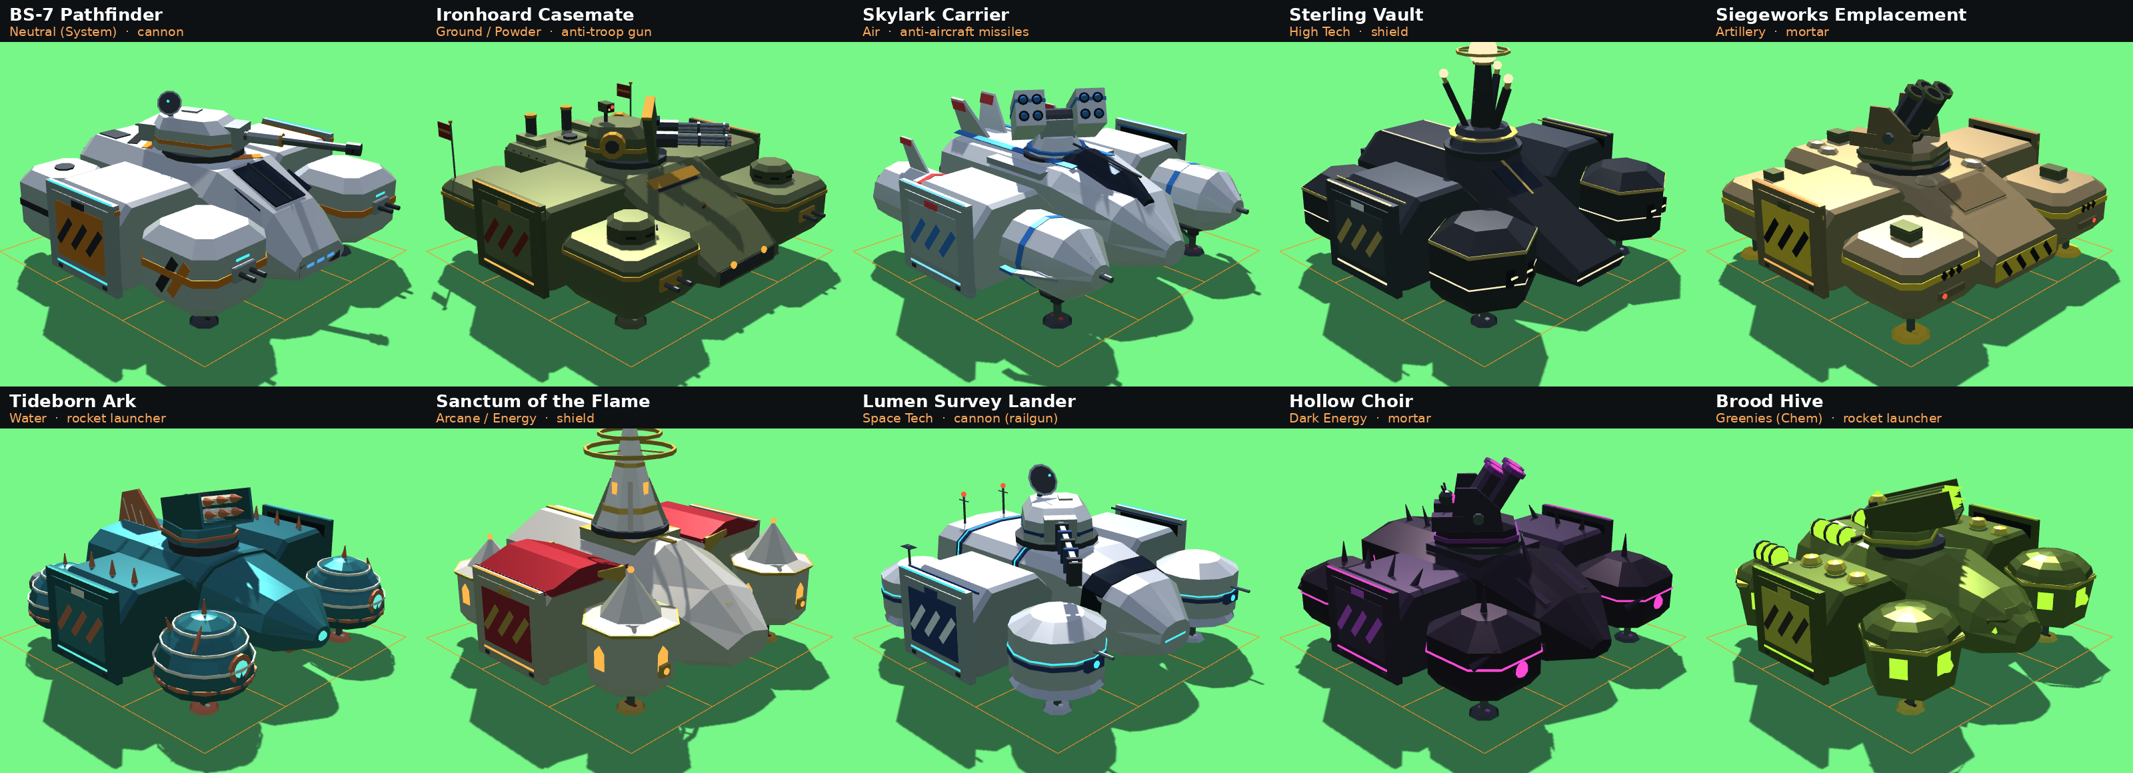
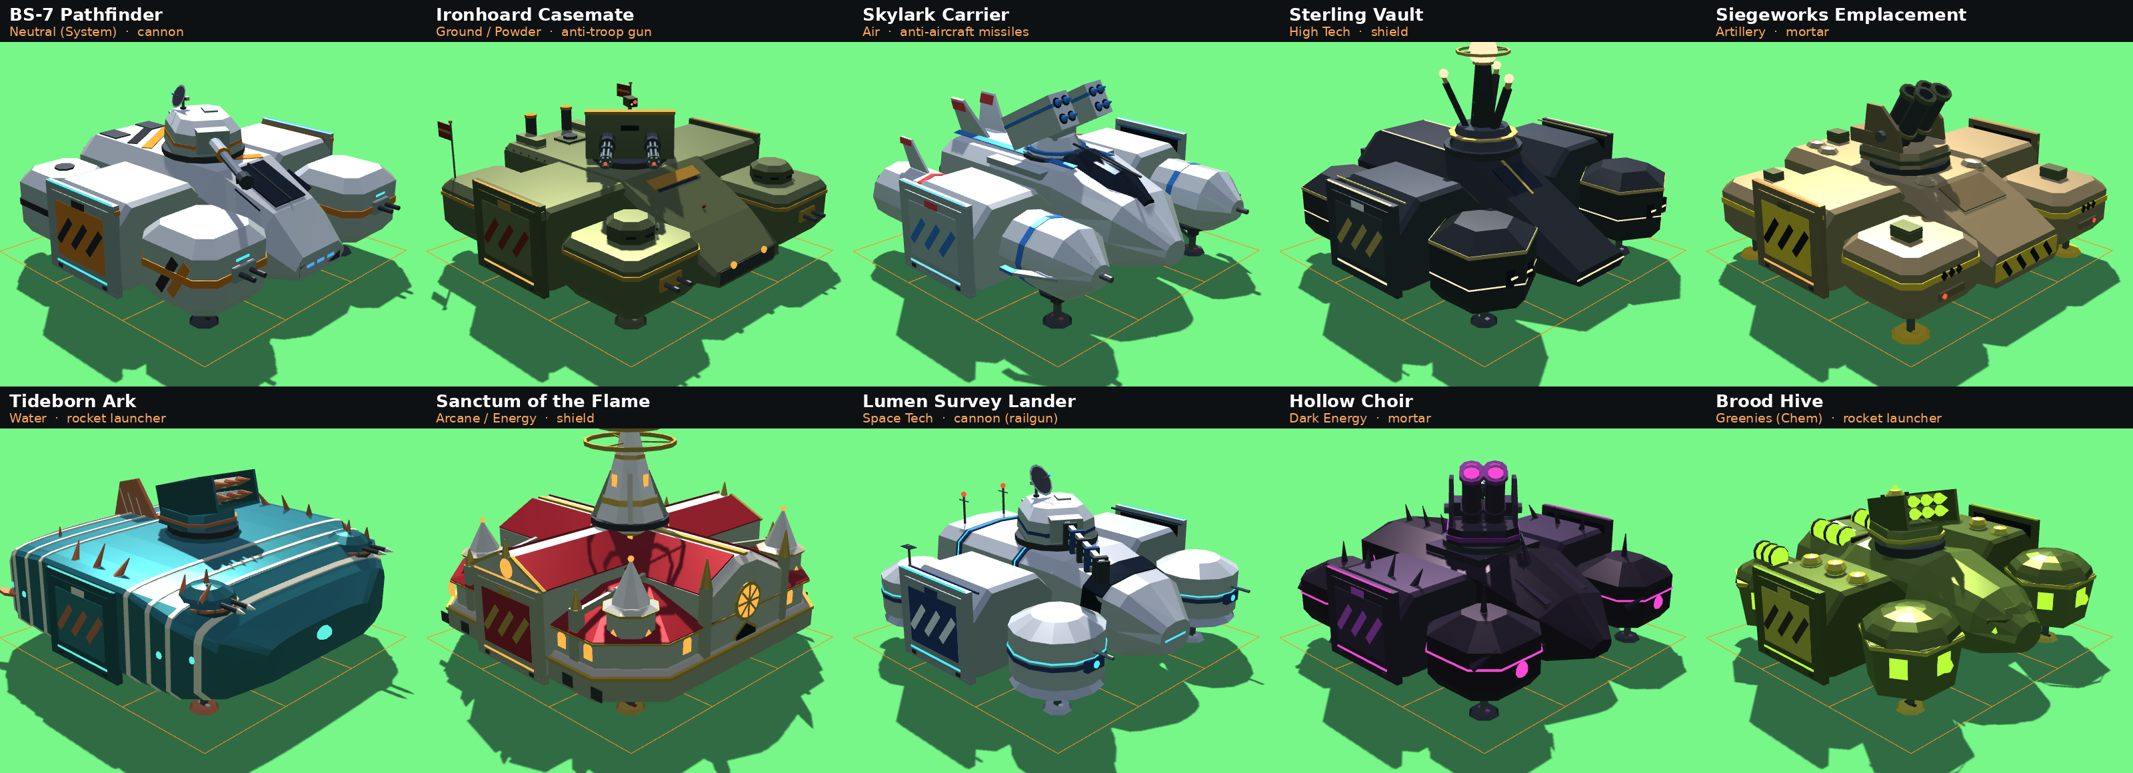
Landing craft v2: Tideborn Ark and Sanctum as unified hulls
Tideborn becomes one nautilus-shell hull with pearl growth ribs, keel, fins and
coral blisters; Sanctum becomes one cruciform basilica whose transept gables are
the resource portals. Same footprint, hatches, gear and weapon pivots.

Claude-Session: https://claude.ai/code/session_01C4m8hBrH3mjD6inXmS6TcQ

diff --git a/prototype/test-game/tools/unit-models/landing-craft/models.js b/prototype/test-game/tools/unit-models/landing-craft/models.js
@@ -619,92 +619,148 @@
     });
   }
 
-  // 5 · WATER — "Tideborn Ark". Sea-tribe teal with coral and pearl: a keeled shell hull, scallop-shell pods with
-  //     ribs, dorsal fin, coral spines; a harpoon-rocket rack.
+  // 5 · WATER — "Tideborn Ark" (v2, one hull). Sea-tribe teal with coral and pearl. A single nautilus-shell hull
+  //     covers the whole 3 × 3: flat flanks for the hatches, the shell swelling to a ridge, pearl growth ribs across
+  //     the back, a keel and dorsal fin. The corner defense pods are now blisters grown out of the shell.
   {
-    const roof = 4.15;
-    const shellPod = (cx, r, hy) => [
-      { t: 'ell', s: [r, hy, r], seg: 12, half: true, p: [cx, 1.45, 4.0], m: 'hull', mir: true },
-      { t: 'cyl', r: [r, r * 0.86], l: 0.4, seg: 12, p: [cx, 1.25, 4.0], m: 'hull2', mir: true },
-      ...[0.3, 0.58, 0.82].flatMap((f) => hoop(cx, 1.45 + hy * f, 4.0, r * Math.sqrt(1 - f * f) + 0.02, 16, 0.06, 0.09, 'stripe', { mir: true, d: f > 0.7 ? 1 : 0 })),
-      { t: 'cyl', r: r + 0.04, l: 0.12, seg: 12, p: [cx, 1.5, 4.0], m: 'accent', mir: true },
-    ];
+    const roof = 4.75;
+    // shell cross-section (17 pts): flat bottom, vertical flank to ys, superelliptic shoulder up to the ridge yt
+    const shellSec = (hw, y0, ys, yt, cb = 0.45, k = 5, sq = 0.7) => {
+      const P = [[-hw + cb, y0], [hw - cb, y0], [hw, y0 + cb], [hw, ys]];
+      const arc = (i) => { const a = i / (k + 1) * Math.PI / 2; return [hw * Math.pow(Math.cos(a), sq), ys + (yt - ys) * Math.pow(Math.sin(a), sq)]; };
+      for (let i = 1; i <= k; i++) P.push(arc(i));
+      P.push([0, yt]);
+      for (let i = k; i >= 1; i--) { const [u, v] = arc(i); P.push([-u, v]); }
+      P.push([-hw, ys], [-hw, y0 + cb]);
+      return P;
+    };
+    // hull stations along X: [x, half-width, bottom, flank top, ridge]
+    const ST = [[-5.97, 4.3, 1.25, 2.5, 3.4], [-5.55, 5.45, 1.05, 3.35, 4.2], [-4.4, 5.95, 1.0, 4.05, 4.55], [-2.3, 6.0, 1.0, 4.3, 4.62],
+      [2.3, 6.0, 1.0, 4.3, 4.62], [4.3, 5.8, 1.0, 3.65, 4.4], [5.4, 4.85, 1.05, 2.85, 3.65], [5.97, 3.1, 1.25, 2.1, 2.7]];
+    const at = (x) => { let i = 0; while (i < ST.length - 2 && x > ST[i + 1][0]) i++; const A = ST[i], B = ST[i + 1], t = (x - A[0]) / (B[0] - A[0]); return A.map((v, j) => v + (B[j] - v) * t); };
+    const rib = (x, w = 0.16, grow = 0.05) => { const a = at(x - w / 2), b = at(x + w / 2);
+      return { t: 'loft', ax: 'x', secs: [[x - w / 2, shellSec(a[1] + grow, a[2] - 0.02, a[3], a[4] + grow)], [x + w / 2, shellSec(b[1] + grow, b[2] - 0.02, b[3], b[4] + grow)]], m: 'stripe' }; };
     const parts = [
-      { t: 'loft', ax: 'x', secs: [[-5.5, esec(0, 1.5, 2.6, 1.2, 12, 0.8)], [-4.8, esec(0, 2.3, 2.6, 1.6, 12, 0.7)], [1.6, esec(0, 2.35, 2.6, 1.55, 12, 0.7)], [4.6, esec(0, 1.8, 2.3, 1.1, 12, 0.8)], [5.95, esec(0, 0.5, 2.0, 0.4, 12)]], m: 'hull' },
-      // keel
-      { t: 'ext', ax: 'z', poly: [[-4.8, 1.2], [4.5, 1.2], [5.6, 1.6], [4.6, 0.95], [-4.0, 0.95]], d: [-0.15, 0.15], m: 'accent' },
-      // bow lamp + eye windows
-      { t: 'ell', s: [0.3, 0.22, 0.3], seg: 10, p: [5.8, 2.05, 0], m: 'glow' },
-      ...[0.9].flatMap((z) => [{ t: 'ell', s: [0.55, 0.3, 0.25], seg: 10, p: [3.9, 3.0, z], r3: [0, 0, -18], m: 'glass', mir: true },
-        { t: 'ell', s: [0.6, 0.34, 0.24], seg: 10, p: [3.88, 2.98, z * 1.04], r3: [0, 0, -18], m: 'accent', mir: true, d: 1 }]),
-      // dorsal fin + pearl crest
-      { t: 'ext', ax: 'z', poly: [[-5.2, 4.0], [-2.3, 4.0], [-3.9, 5.7], [-4.9, 5.4]], d: [-0.08, 0.08], m: 'accent' },
-      ...[-4.6, -4.1, -3.6].map((x, i) => ({ t: 'box', s: [0.06, 1.2 - i * 0.25, 0.18], p: [x, 4.6 - i * 0.05, 0], r3: [0, 0, 22], m: 'stripe', d: 1 })),
+      { t: 'loft', ax: 'x', secs: ST.map(([x, hw, y0, ys, yt]) => [x, shellSec(hw, y0, ys, yt)]), m: 'hull' },
+      // pearl growth ribs, closer together toward the bow and stern like a shell's growth lines
+      ...[-5.2, -4.3, -3.4, -2.42, 2.42, 3.35, 4.2, 4.95].map((x) => rib(x)),
+      // keel + belly plate
+      { t: 'ext', ax: 'z', poly: [[-5.3, 1.05], [5.0, 1.05], [5.95, 1.6], [5.0, 0.85], [-4.6, 0.85]], d: [-0.16, 0.16], m: 'accent' },
+      { t: 'box', s: [9.0, 0.06, 6.0], p: [-0.3, 0.98, 0], m: 'hull2' },
+      // bow: lamp, two great eyes ringed in coral
+      { t: 'ell', s: [0.32, 0.26, 0.4], seg: 10, p: [5.95, 2.2, 0], m: 'glow' },
+      { t: 'ell', s: [0.55, 0.34, 0.42], seg: 12, p: [5.12, 2.95, 1.25], r3: [0, 18, -24], m: 'glass', mir: true },
+      { t: 'ell', s: [0.6, 0.38, 0.46], seg: 12, p: [5.08, 2.93, 1.27], r3: [0, 18, -24], m: 'accent', mir: true, d: 1 },
+      ...[0.45, 0.9, 1.35].map((z) => ({ t: 'box', s: [0.05, 0.05, 0.3], p: [5.82, 1.8, z], m: 'glow', mir: true, d: 1 })),
+      // dorsal fin with pearl rays
+      { t: 'ext', ax: 'z', poly: [[-5.55, 3.9], [-2.6, 4.45], [-3.9, 6.15], [-5.0, 5.85]], d: [-0.09, 0.09], m: 'accent' },
+      ...[-4.75, -4.25, -3.75].map((x, i) => ({ t: 'box', s: [0.06, 1.35 - i * 0.22, 0.2], p: [x, 4.95 - i * 0.02, 0], r3: [0, 0, 24], m: 'stripe', d: 1 })),
+      // swept stern fins
+      { t: 'ext', ax: 'y', poly: [[-4.1, 5.0], [-3.1, 5.25], [-5.0, 6.15], [-5.8, 6.05]], d: [2.25, 2.37], m: 'accent', mir: true },
+      // roof: shell plinth for the launcher
+      { t: 'cyl', r: [1.45, 1.7], l: 0.42, seg: 12, p: [0, roof - 0.21, 0], m: 'hull2' },
+      { t: 'cyl', r: 1.72, l: 0.1, seg: 12, p: [0, roof - 0.38, 0], m: 'accent' },
       ...bearing(roof),
-      // scale bands along the hull
-      ...[-3.0, -1.6, 0.2, 1.8].map((x) => ({ t: 'loft', ax: 'x', secs: [[x, esec(0, 2.37, 2.6, 1.57, 12, 0.7)], [x + 0.18, esec(0, 2.37, 2.6, 1.57, 12, 0.7)]], m: 'hull2', d: 1 })),
-      ...nozzle(-5.45, 2.4, 0.75, 0.5, 0.4, { mir: true, collar: 'accent' }),
-      ...modBox({ m: 'hull2', ct: 0.9, y1: 4.05 }),
-      ...[-1.2, 0, 1.2].map((x) => ({ t: 'cyl', r: [0.02, 0.14], l: 0.6, seg: 6, p: [x, 4.3, 4.6], m: 'accent', mir: true, d: 1 })),
-      ...shellPod(4.0, 1.75, 2.1), ...shellPod(-3.8, 1.6, 1.9),
-      // coral spines on the pods
-      ...[[4.0, 3.6, 4.0, 0], [4.6, 3.1, 4.9, -22], [3.3, 3.1, 4.9, 22], [-3.8, 3.35, 4.0, 0]].map(([x, y, z, a]) => ({ t: 'cyl', r: [0.02, 0.16], l: 0.9, seg: 6, p: [x, y, z], r3: [a, 0, 0], m: 'accent', mir: true })),
-      { t: 'cyl', ax: 'x', r: 0.5, l: 0.12, seg: 12, p: [5.6, 2.1, 4.0], m: 'accent', mir: true },
-      { t: 'cyl', ax: 'x', r: 0.3, l: 0.04, seg: 12, p: [5.67, 2.1, 4.0], m: 'glow', mir: true },
-      ...nozzle(-5.25, 2.0, 4.0, 0.46, 0.5, { mir: true, collar: 'accent' }),
-      ...liftJet(4.0, 4.0, 1.07), ...liftJet(-3.8, 4.0, 1.07, 0.5),
+      // coral spines along the shoulders, over the hatches
+      ...[-1.3, 0, 1.3].map((x, i) => ({ t: 'cyl', r: [0.02, 0.17], l: 0.8 + (i === 1 ? 0.35 : 0), seg: 6, p: [x, 4.75, 5.15], r3: [-28, 0, i === 1 ? 0 : -x * 14], m: 'accent', mir: true })),
+      // bioluminescent spots along the flanks
+      ...[-5.0, -3.8, 3.8, 4.8].map((x) => ({ t: 'ell', s: [0.14, 0.14, 0.06], seg: 8, p: [x, 2.6, at(x)[1] + 0.01], m: 'glow', mir: true, d: 1 })),
+      // front defense blisters grown from the shell: harpoon guns, coral crown
+      { t: 'ell', s: [1.05, 0.62, 1.05], seg: 12, p: [4.1, 4.05, 4.0], m: 'hull2', mir: true },
+      { t: 'cyl', r: 1.07, l: 0.1, seg: 12, p: [4.1, 4.05, 4.0], m: 'accent', mir: true },
+      ...[0.24, -0.24].map((dz) => ({ t: 'cyl', ax: 'x', r: 0.085, l: 1.3, seg: 8, p: [5.05, 4.2, 4.0 + dz], m: 'dark', mir: true })),
+      ...[0.24, -0.24].map((dz) => ({ t: 'cyl', ax: 'x', r: [0.02, 0.1], l: 0.3, seg: 6, p: [5.85, 4.2, 4.0 + dz], m: 'stripe', mir: true })),
+      ...[[4.1, 4.75, 4.0, 0, 0], [3.6, 4.55, 4.55, -25, 15], [4.6, 4.55, 4.55, -25, -15]].map(([x, y, z, a, b]) => ({ t: 'cyl', r: [0.02, 0.15], l: 0.75, seg: 6, p: [x, y, z], r3: [a, 0, b], m: 'accent', mir: true })),
+      // rear blisters over the stern engines
+      { t: 'ell', s: [0.85, 0.5, 0.85], seg: 12, p: [-4.0, 3.95, 4.0], m: 'hull2', mir: true },
+      { t: 'cyl', r: [0.02, 0.14], l: 0.7, seg: 6, p: [-4.0, 4.5, 4.0], m: 'accent', mir: true },
+      // engines: two in the stern centre, one under each rear blister
+      ...nozzle(-5.75, 2.35, 0.85, 0.5, 0.35, { mir: true, collar: 'accent' }),
+      ...nozzle(-5.45, 2.2, 4.0, 0.42, 0.4, { mir: true, collar: 'accent' }),
+      ...liftJet(4.0, 4.0, 1.02), ...liftJet(-3.8, 4.0, 1.02, 0.5),
       ...gearLeg(4.0, 4.0, { top: 1.3, padM: 'accent' }), ...gearLeg(-3.8, 4.0, { top: 1.3, padM: 'accent' }),
     ];
     const W = wRockets(roof, { body: 'stripe', nose: 'accent' });
     craft('lc_water', {
       name: 'Tideborn Ark', faction: 'water', factionName: 'Water', unit: 'WTR-LandingCraft', weaponType: 'rocket launcher',
-      blurb: 'A sea-tribe ark: keeled teal shell, scallop pods ribbed in pearl, coral spines and a dorsal fin. Harpoon rockets ride an open rack.',
+      blurb: 'A sea-tribe ark grown as one nautilus shell: teal hull, pearl growth ribs, keel and dorsal fin, coral-crowned blisters. Harpoon rockets ride an open rack.',
       palette: { hull: '#2f7d86', hull2: '#25646c', panel: '#3a909a', accent: '#e07a52', stripe: '#efe4c8', trim: '#e07a52', glow: '#5ff0e0', glowE: '#5ae8ff' },
       roofY: roof, parts, weapon: W, headParts: hDish(W.head, 0.32, 0.3), headMode: { mode: 'sweep' },
       hatch: hatches({ panel: 'hull2', inset: 'panel', bars: 'accent', plate: 'stripe' }),
     });
   }
 
-  // 6 · ARCANE / ENERGY — "Sanctum of the Flame". Ivory and gold with crimson, a peaked nave roof with
-  //     buttress fins, spired corner towers with stained-glass windows; a halo spire shield.
+  // 6 · ARCANE / ENERGY — "Sanctum of the Flame" (v2, one cathedral). Ivory and gold with crimson. A single
+  //     cruciform basilica on one undercroft: the nave runs bow to stern, the transept crosses the middle row and
+  //     its gable ends ARE the resource portals, aisles with a crimson hipped roof wrap all round, corner turrets
+  //     and flying buttresses are bonded into the walls; the halo spire rises from the crossing tower.
   {
-    const roof = 4.8;
-    const tower = (cx, r, y1, sp) => [
-      { t: 'loft', ax: 'y', secs: [[1.1, ngon(cx, 4.0, r * 0.82, 8, 22.5)], [1.5, ngon(cx, 4.0, r, 8, 22.5)], [y1, ngon(cx, 4.0, r, 8, 22.5)], [y1 + 0.15, ngon(cx, 4.0, r * 1.06, 8, 22.5)], [y1 + 0.3, ngon(cx, 4.0, r * 0.7, 8, 22.5)], [y1 + sp, ngon(cx, 4.0, 0.05, 8, 22.5)]], m: 'hull', mir: true },
-      { t: 'loft', ax: 'y', secs: [[y1, ngon(cx, 4.0, r + 0.05, 8, 22.5)], [y1 + 0.15, ngon(cx, 4.0, r * 1.1, 8, 22.5)]], m: 'accent', mir: true },
-      ...[0, 90, 180, 270].map((a) => ({ t: 'ext', ax: 'z', poly: [[-0.22, 2.0], [0.22, 2.0], [0.22, 2.6], [0, 2.85], [-0.22, 2.6]], d: [-0.03, 0.03], p: [cx + Math.cos(a * D) * r * 0.93, 0, 4.0 - Math.sin(a * D) * r * 0.93], r3: [0, a + 90, 0], m: 'glow', mir: true })),
-      { t: 'ell', s: [0.12, 0.12, 0.12], seg: 8, p: [cx, y1 + sp + 0.08, 4.0], m: 'glow', mir: true },
+    const roof = 5.1;
+    const turret = (cx, cz, r, top, sp) => [
+      { t: 'loft', ax: 'y', secs: [[2.0, ngon(cx, cz, r, 8, 22.5)], [top, ngon(cx, cz, r, 8, 22.5)], [top + 0.12, ngon(cx, cz, r * 1.12, 8, 22.5)], [top + 0.26, ngon(cx, cz, r * 0.78, 8, 22.5)], [top + sp, ngon(cx, cz, 0.04, 8, 22.5)]], m: 'hull', mir: true },
+      { t: 'loft', ax: 'y', secs: [[top, ngon(cx, cz, r + 0.04, 8, 22.5)], [top + 0.12, ngon(cx, cz, r * 1.16, 8, 22.5)]], m: 'accent', mir: true },
+      ...[0, 90].map((a) => ({ t: 'ext', ax: 'z', poly: [[-0.17, 2.55], [0.17, 2.55], [0.17, 3.15], [0, 3.38], [-0.17, 3.15]], d: [-0.03, 0.03],
+        p: [cx + Math.cos(a * D) * r * 0.93, 0, cz + Math.sin(a * D) * r * 0.93], r3: [0, 90 - a, 0], m: 'glow', mir: true })),
+      { t: 'ell', s: [0.11, 0.11, 0.11], seg: 8, p: [cx, top + sp + 0.07, cz], m: 'glow', mir: true },
     ];
+    // a lancet window: x-facing (on an X wall) or z-facing (on a Z wall)
+    const lancetZ = (x, z, w = 0.2) => ({ t: 'ext', ax: 'z', poly: [[x - w, 2.3], [x + w, 2.3], [x + w, 2.75], [x, 2.98], [x - w, 2.75]], d: [z, z + 0.03], m: 'glow', mir: true });
+    const lancetX = (x, z, w = 0.2) => ({ t: 'ext', ax: 'x', poly: [[z - w, 2.3], [z + w, 2.3], [z + w, 2.75], [z, 2.98], [z - w, 2.75]], d: x > 0 ? [x, x + 0.03] : [x - 0.03, x], m: 'glow', mir: true });
+    const flyer = (x) => [
+      { t: 'box', s: [0.38, 1.85, 0.38], p: [x, 2.95, 5.5], m: 'hull2', mir: true },
+      { t: 'cyl', r: [0.02, 0.2], l: 0.65, seg: 8, p: [x, 4.2, 5.5], m: 'accent', mir: true },
+      strut([x, 3.7, 5.4], [x, 4.15, 2.3], 0.16, 0.24, 'hull2', { mir: true }),
+    ];
+    const roofPlane = (cx, cy, cz, len, wid, rx, rz, m = 'stripe') => ({ t: 'box', s: [len, 0.07, wid], p: [cx, cy, cz], r3: [rx, 0, rz], m });
     const parts = [
-      { t: 'loft', ax: 'x', secs: [[-5.4, arch(0, 2.1, 1.05, 3.6, 0.8)], [-5.0, arch(0, 2.3, 1.0, 3.75, 0.95)], [2.3, arch(0, 2.3, 1.0, 3.75, 0.95)], [4.5, arch(0, 2.0, 1.0, 2.9, 0.6)], [5.95, arch(0, 1.2, 1.15, 1.9, 0.25)]], m: 'hull' },
-      // gold ridge + great rose window at the bow
-      { t: 'box', s: [7.4, 0.1, 0.24], p: [-1.35, 4.72, 0], m: 'accent' },
-      { t: 'cyl', ax: 'x', r: 0.62, l: 0.08, seg: 12, p: [4.75, 2.5, 0], r3: [0, 0, -22], m: 'accent' },
-      { t: 'cyl', ax: 'x', r: 0.5, l: 0.06, seg: 12, p: [4.79, 2.5, 0], r3: [0, 0, -22], m: 'glow' },
-      ...[0, 45, 90, 135].map((a) => ({ t: 'box', s: [0.03, 1.0, 0.06], p: [4.83, 2.5, 0], r3: [a, 0, -22], m: 'accent', d: 1 })),
-      // nave windows (stained glass) + buttresses
-      ...[2.6, 3.6].map((x) => ({ t: 'ext', ax: 'z', poly: [[x - 0.22, 2.0], [x + 0.22, 2.0], [x + 0.22, 2.7], [x, 2.95], [x - 0.22, 2.7]], d: [2.3, 2.33], m: 'glow', mir: true })),
+      // undercroft: one plinth under the whole craft, chamfered corners, gold cornice
+      { t: 'loft', ax: 'y', secs: [[0.95, octP(0, 0, 5.75, 5.75, 1.7)], [1.15, octP(0, 0, 5.95, 5.95, 1.76)], [1.9, octP(0, 0, 5.95, 5.95, 1.76)], [2.08, octP(0, 0, 5.7, 5.7, 1.68)]], m: 'hull2' },
+      { t: 'loft', ax: 'y', secs: [[1.84, octP(0, 0, 6.0, 6.0, 1.78)], [1.96, octP(0, 0, 6.0, 6.0, 1.78)]], m: 'accent' },
+      ...[-4.4, -3.0, -1.6, 1.6, 3.0, 4.4].map((x) => ({ t: 'box', s: [0.5, 0.42, 0.04], p: [x, 1.45, 5.96], m: 'dark', mir: true, d: 1 })),
+      // aisle walls all round + crimson hipped aisle roof
+      { t: 'loft', ax: 'y', secs: [[2.0, octP(0, 0, 5.6, 5.6, 1.65)], [3.05, octP(0, 0, 5.6, 5.6, 1.65)]], m: 'hull' },
+      { t: 'loft', ax: 'y', secs: [[3.0, octP(0, 0, 5.78, 5.78, 1.72)], [3.1, octP(0, 0, 5.78, 5.78, 1.72)], [3.9, octP(0, 0, 3.4, 3.4, 0.95)]], m: 'stripe' },
+      { t: 'loft', ax: 'y', secs: [[2.98, octP(0, 0, 5.8, 5.8, 1.73)], [3.06, octP(0, 0, 5.8, 5.8, 1.73)]], m: 'accent' },
+      // nave, bow to stern, with a proper west front at the bow
+      { t: 'loft', ax: 'x', secs: [[-5.55, arch(0, 2.3, 1.0, 4.1, 0.9)], [5.45, arch(0, 2.3, 1.0, 4.1, 0.9)], [5.78, arch(0, 2.1, 1.0, 3.95, 0.82)]], m: 'hull' },
+      roofPlane(-0.05, 4.6, 1.38, 11.0, 2.06, 26.6, 0), roofPlane(-0.05, 4.6, -1.38, 11.0, 2.06, -26.6, 0),
+      { t: 'box', s: [11.2, 0.1, 0.22], p: [0, 5.04, 0], m: 'accent' },
+      // transept across the middle row; its gables at Z = ±6 carry the resource portals
+      { t: 'loft', ax: 'z', secs: [[-6.0, arch(0, 2.0, 1.0, 4.3, 0.75)], [6.0, arch(0, 2.0, 1.0, 4.3, 0.75)]], m: 'hull' },
+      roofPlane(1.23, 4.72, 0, 1.78, 12.08, 0, -25.7), roofPlane(-1.23, 4.72, 0, 1.78, 12.08, 0, 25.7),
+      ...[1, -1].map((s) => ({ t: 'box', s: [1.9, 0.1, 0.14], p: [s * 1.2, 4.72, 6.03], r3: [0, 0, -s * 25.7], m: 'accent', mir: true })),
+      { t: 'cyl', r: [0.02, 0.16], l: 0.6, seg: 8, p: [0, 5.35, 6.0], m: 'accent', mir: true },
+      { t: 'ell', s: [0.36, 0.36, 0.05], seg: 12, p: [0, 4.62, 6.02], m: 'glow', mir: true },
+      // west front: rose window, gold tracery, lancet "cockpit" glass, flanking pinnacles
+      { t: 'cyl', ax: 'x', r: 0.72, l: 0.08, seg: 14, p: [5.8, 3.35, 0], m: 'accent' },
+      { t: 'cyl', ax: 'x', r: 0.6, l: 0.06, seg: 14, p: [5.83, 3.35, 0], m: 'glow' },
+      ...[0, 45, 90, 135].map((a) => ({ t: 'box', s: [0.03, 1.2, 0.07], p: [5.87, 3.35, 0], r3: [a, 0, 0], m: 'accent', d: 1 })),
+      { t: 'ext', ax: 'x', poly: [[-0.55, 1.4], [0.55, 1.4], [0.55, 2.15], [0, 2.5], [-0.55, 2.15]], d: [5.78, 5.83], m: 'glass' },
+      { t: 'ext', ax: 'x', poly: [[-0.68, 1.3], [0.68, 1.3], [0.68, 2.2], [0, 2.62], [-0.68, 2.2]], d: [5.77, 5.8], m: 'accent' },
+      ...[1].map((z) => ({ t: 'box', s: [0.32, 3.4, 0.32], p: [5.72, 2.75, z * 2.25], m: 'hull2', mir: true })),
+      { t: 'cyl', r: [0.02, 0.22], l: 1.0, seg: 8, p: [5.72, 4.95, 2.25], m: 'accent', mir: true },
+      // crossing tower (the weapon's plinth) with lancets and a gold band
+      { t: 'loft', ax: 'y', secs: [[4.3, ngon(0, 0, 1.6, 8, 22.5)], [roof - 0.12, ngon(0, 0, 1.5, 8, 22.5)], [roof, ngon(0, 0, 1.42, 8, 22.5)]], m: 'hull2' },
+      { t: 'loft', ax: 'y', secs: [[roof - 0.24, ngon(0, 0, 1.54, 8, 22.5)], [roof - 0.12, ngon(0, 0, 1.53, 8, 22.5)]], m: 'accent' },
+      ...[45, 135, 225, 315].map((a) => ({ t: 'box', s: [0.04, 0.42, 0.2], p: [Math.cos(a * D) * 1.53, 4.72, -Math.sin(a * D) * 1.53], r3: [0, a, 0], m: 'glow' })),
       ...bearing(roof, 1.15),
-      { t: 'box', s: [3.0, 0.5, 2.6], p: [0, roof - 0.25, 0], m: 'hull2' },
-      { t: 'box', s: [3.04, 0.08, 2.64], p: [0, roof - 0.04, 0], m: 'accent' },
-      // rear: censers (engines) in gold collars
-      { t: 'box', s: [0.2, 2.0, 3.0], p: [-5.45, 2.4, 0], m: 'stripe' },
-      ...nozzle(-5.55, 1.8, 0.7, 0.42, 0.4, { mir: true, collar: 'accent', m: 'accent' }),
-      // side chapels (hatch modules) with flying buttresses
-      ...modBox({ m: 'hull2', ct: 0.3, y1: 4.15 }),
-      { t: 'loft', ax: 'x', secs: [[-1.98, arch(4.0, 1.95, 4.0, 4.15, 0.55)], [1.98, arch(4.0, 1.95, 4.0, 4.15, 0.55)]], m: 'stripe', mir: true },
-      ...[-1.98, 1.98].map((x) => ({ t: 'ext', ax: 'x', poly: [[2.3, 4.3], [2.3, 3.6], [3.6, 4.2], [3.6, 4.4]], d: [x - 0.08, x + 0.08], m: 'accent', mir: true })),
-      ...tower(4.0, 1.55, 3.3, 1.7), ...tower(-3.8, 1.4, 3.1, 1.3),
-      ...nozzle(-5.1, 1.9, 4.0, 0.42, 0.55, { mir: true, collar: 'accent', m: 'accent' }),
-      { t: 'box', s: [0.2, 0.42, 0.42], p: [5.5, 2.0, 4.0], m: 'accent', mir: true },
-      { t: 'cyl', ax: 'x', r: 0.12, l: 0.06, seg: 8, p: [5.62, 2.0, 4.0], m: 'glow', mir: true },
-      ...liftJet(4.0, 4.0, 1.07, 0.5), ...liftJet(-3.8, 4.0, 1.07, 0.45),
+      // corner turrets bonded into the aisle walls
+      ...turret(4.25, 4.25, 0.85, 3.85, 1.65), ...turret(-4.1, 4.1, 0.8, 3.7, 1.35),
+      // flying buttresses from the aisle wall to the nave, and lancet windows between them
+      ...flyer(-3.0), ...flyer(3.0),
+      ...[-4.3, -2.35, 2.35, 3.65].map((x) => lancetZ(x, 5.6)),
+      ...[3.0].flatMap((z) => [lancetX(5.6, z), lancetX(-5.6, z)]),
+      // stern: censer engines set in the apse wall
+      ...nozzle(-5.55, 2.55, 3.05, 0.4, 0.4, { mir: true, collar: 'accent', m: 'accent' }),
+      ...nozzle(-5.5, 2.0, 0.85, 0.45, 0.45, { mir: true, collar: 'accent', m: 'accent' }),
+      { t: 'ell', s: [0.42, 0.42, 0.05], seg: 12, p: [-5.57, 3.35, 0], m: 'glow' },
+      ...liftJet(4.0, 4.0, 0.98, 0.5), ...liftJet(-3.8, 4.0, 0.98, 0.45),
       ...gearLeg(4.0, 4.0, { top: 1.3, padM: 'accent' }), ...gearLeg(-3.8, 4.0, { top: 1.3, padM: 'accent' }),
     ];
     const W = wShield(roof, { style: 'halo' });
     craft('lc_arcane', {
       name: 'Sanctum of the Flame', faction: 'arcane', factionName: 'Arcane / Energy', unit: 'ARC-LandingCraft', weaponType: 'shield',
-      blurb: 'A flying chapel in ivory and gold: peaked nave, spired towers lit with stained flame, and a halo spire that wards the landing site.',
+      blurb: 'A flying basilica in ivory and gold: one cruciform cathedral whose transept gables open as the resource portals, crimson aisle roofs, bonded turrets and buttresses, and a halo spire over the crossing.',
       palette: { hull: '#ece4d2', hull2: '#d6cab0', panel: '#e2d8c2', accent: '#c9a040', stripe: '#8e1d27', trim: '#8e1d27', glow: '#ffb84a', glowE: '#ffcf6a' },
       roofY: roof, parts, weapon: W, headParts: [], headMode: { mode: 'spin', speed: 0.9 },
       hatch: hatches({ panel: 'hull2', inset: 'stripe', bars: 'accent', plate: 'accent' }),

diff --git a/prototype/test-game/tools/unit-models/landing-craft/README.md b/prototype/test-game/tools/unit-models/landing-craft/README.md
@@ -29,11 +29,14 @@ out of the hatches in the sequence).
 | 2 | `lc_air` | **Skylark Carrier** | Air (Florael) | anti-aircraft missiles — twin 4-cell pods | bar radar (spins) | white, sky blue, racing red; long bubble canopy, streamlined nacelle pods, swept fins, canted tail fins |
 | 3 | `lc_hightech` | **Sterling Vault** | High Tech (Ochre) | shield — three-prong projector | sensor hoop (spins) | graphite wedge monolith, gold spine and trim, white light-lines, hex pods, corporate diamond |
 | 4 | `lc_artillery` | **Siegeworks Emplacement** | Artillery (Kessra) | mortar — four tubes | bar radar (sweeps) | khaki + olive, black/yellow hazard skirts, sandbag roof, ammo crates, splayed stabilizer legs |
-| 5 | `lc_water` | **Tideborn Ark** | Water (Rime) | rocket launcher — harpoon rack | radar dish (sweeps) | teal keeled shell hull, coral + pearl, scallop pods with hoop ribs, coral spines, dorsal fin |
-| 6 | `lc_arcane` | **Sanctum of the Flame** | Arcane / Energy (Cinder) | shield — halo spire | twin halos + flame orb (spin) | ivory + gold + crimson; peaked nave, rose window, spired towers with stained-flame windows, buttresses |
+| 5 | `lc_water` | **Tideborn Ark** (v2) | Water (Rime) | rocket launcher — harpoon rack | radar dish (sweeps) | ONE nautilus-shell hull over the whole 3 × 3: teal, pearl growth ribs, keel, dorsal and stern fins, coral-crowned blisters in place of pods |
+| 6 | `lc_arcane` | **Sanctum of the Flame** (v2) | Arcane / Energy (Cinder) | shield — halo spire | twin halos + flame orb (spin) | ONE cruciform basilica on an undercroft: nave bow-to-stern, transept gables are the resource portals, crimson hipped aisle roof all round, bonded corner turrets and flying buttresses, crossing tower under the halo spire |
 | 7 | `lc_space` | **Lumen Survey Lander** | Space Tech (Lumen) | cannon — twin-rail coil railgun | large survey dish (sweeps) | federation white + navy, cyan ring-lights, capsule hull, drum pods, sensor masts |
 | 8 | `lc_dark` | **Hollow Choir** | Dark Energy (Xenthe) | mortar — corruption tubes (glowing mouths) | eye on a stalk (sweeps) | obsidian + violet, magenta seams, spiked ridge and pods |
 | 9 | `lc_greenies` | **Brood Hive** | Greenies / Chem (Vexmire) | rocket launcher — spore rockets | spore pod (spins) | swamp green + toxic yellow, segmented organic hull, hex brood pods, glowing chem tanks, compound eyes |
+
+**v2 (2026-10-16, owner):** Tideborn and Sanctum reworked from modules into one unified, sculpted hull each — exact same
+footprint, hatch, gear and weapon positions. The other eight keep the modular build.
 
 Every one of the six requested weapon types is used; four are used twice (cannon, shield, mortar, rocket launcher).
 **The weapon is a one-line choice per craft** (`weapon: wMortar(roof)` etc. in `models.js`) — the kit builds any weapon
@@ -121,6 +124,8 @@ One instance per level, so cost is small. Draw calls = material keys × groups (
 | Skylark | 3,768 | 2,780 | | Lumen | 4,416 | 2,628 |
 | Sterling Vault | 2,838 | 2,158 | | Hollow Choir | 3,692 | 2,892 |
 | Siegeworks | 3,764 | 2,844 | | Brood Hive | 4,680 | 3,872 |
+
+(v2 — 2026-10-16: Tideborn Ark 5,536 / LOD 4,448; Sanctum 4,808 / LOD 3,876. Rows above for those two are v1.)
 
 ## 6. Port to the game (work for the repo session)
 
